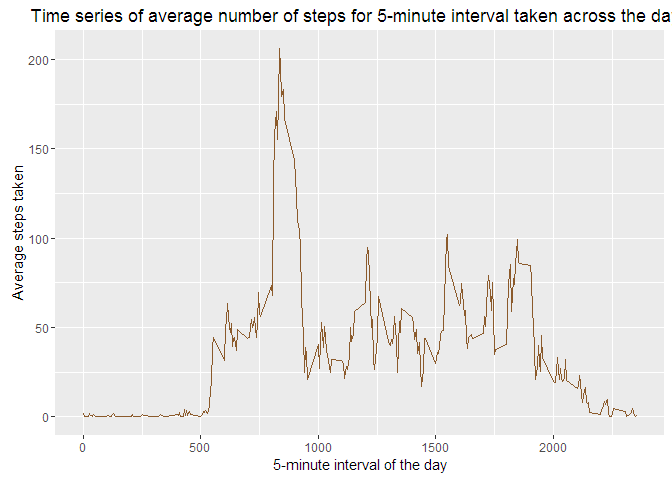
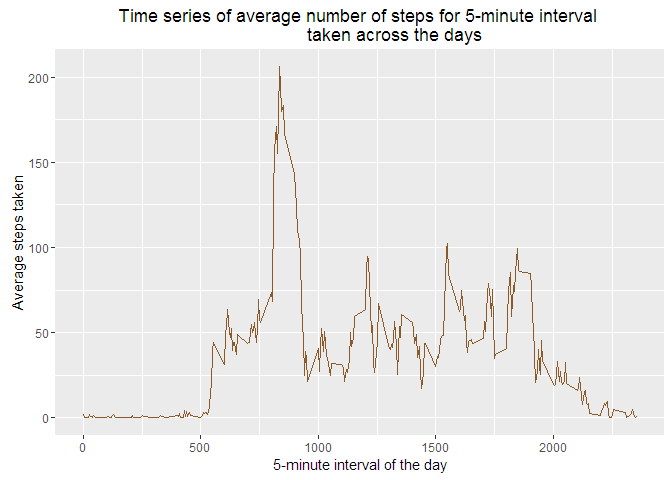
Minor textual changes

diff --git a/PA1_template.html b/PA1_template.html
@@ -125,7 +125,7 @@ $(document).ready(function () {
 <p>Load the data from the csv file.</p>
 <pre class="r"><code>setwd(&quot;F:/Coursera/Data_Science/Reproducible_Research/Week_2&quot;)
 activity &lt;- read.csv(&quot;activity.csv&quot;)</code></pre>
-<p>Reformat variable date to date format and make a ‘clean’ set of data that doesn’t contain NA values for variable steps.</p>
+<p>Reformat variable ‘date’ to date format and make a ‘clean’ set of data that doesn’t contain NA values for variable ‘steps’.</p>
 <pre class="r"><code>activity$date &lt;- as.Date(activity$date,&quot;%Y-%m-%d&quot;)
 activityClean &lt;- activity[!is.na(activity$steps),]</code></pre>
 </div>
@@ -163,7 +163,7 @@ Median total steps per day: 10766</p>
 </div>
 <div id="what-is-the-average-daily-activity-pattern" class="section level2">
 <h2>What is the average daily activity pattern?</h2>
-<p>Calculate the average number of steps for each interval across all days</p>
+<p>Calculate the average number of steps for each interval across all days as preparation for the time series plot.</p>
 <pre class="r"><code>library(dplyr)
 groupsInt &lt;- group_by(activityClean, 
                       interval)
@@ -173,10 +173,11 @@ avgStepsInt &lt;- summarise(groupsInt,
 <pre class="r"><code>library(ggplot2)
 time &lt;- ggplot(avgStepsInt, aes(interval,avg.steps))
 time + geom_line(color = &quot;tan4&quot;) +
-    labs(list(title = &quot;Time series of average number of steps for 5-minute interval taken across the days&quot;, 
+    labs(list(title = &quot;Time series of average number of steps for 5-minute interval 
+              taken across the days&quot;, 
               x = &quot;5-minute interval of the day&quot;,
               y = &quot;Average steps taken&quot;))</code></pre>
[2 lines of base64/hex data omitted]
 <p>Determine which 5-minute interval contains the maximum number of steps on average</p>
 <pre class="r"><code>maxAvgStepsInt &lt;- avgStepsInt[avgStepsInt$avg.steps==max(avgStepsInt$avg.steps),]
 maxSteps &lt;- round(maxAvgStepsInt$avg.steps, digits=2)</code></pre>
@@ -190,16 +191,17 @@ With a maximum average steps of: 206.17</p>
 percNA &lt;- round(mean(is.na(activity$steps))*100,digits = 2)</code></pre>
 <p>Total number of missing values in the dataset: 2304.<br />
 This is 13.11% of the total dataset.</p>
-<p>Use the average steps per interval calculated across all days to impute the missing values in the original dataset. Create a new dataset from the original dataset with the missing values imputed</p>
+<p>Use the average steps per interval calculated across all days to impute the missing values in the original dataset.<br />
+Create a new dataset from the original dataset with the missing values imputed</p>
 <pre class="r"><code>activityImp &lt;- activity
 activityImp$steps[is.na(activityImp$steps)] &lt;- avgStepsInt$avg.steps</code></pre>
-<p>First calculate the total number of steps taken per day for the imputed dataset.</p>
+<p>Calculate the total number of steps taken per day for the imputed dataset as preparation for the histogram.</p>
 <pre class="r"><code>library(dplyr)
 groupsImpDay &lt;- group_by(activityImp, 
                       date)
 totStepsImpDay &lt;- summarise(groupsImpDay, 
                          sum.steps = sum(steps, rm.na = TRUE))</code></pre>
-<p>The histogram beloging to the imputed dataset</p>
+<p>The histogram belonging to the imputed dataset.</p>
 <pre class="r"><code>library(ggplot2)
 hist &lt;- ggplot(totStepsImpDay, aes(sum.steps))
 hist + geom_histogram(na.rm = TRUE,
@@ -222,15 +224,18 @@ totStepsImpDayStats &lt;- summarise(groupsImpTot,
 meanImp &lt;- round(totStepsImpDayStats$mean.sum.steps, digits=2)</code></pre>
 <p>Mean total steps per day: 10767.19<br />
 Median total steps per day: 10767.1886792</p>
-<p>The mean didn’t change. This is logical when looking the imputed values were the mean values per interval. This is also reflected in the histogram. Just the bin containing the mean increased. The median converted towards the mean. Also logical when realising there are values added equal to the mean.</p>
+<p>The mean didn’t change. This is logical when looking the imputed values were the mean values per interval. This is also reflected in the histogram. Just the bin containing the mean increased. The median converted towards the mean.</p>
 </div>
 <div id="are-there-differences-in-activity-patterns-between-weekdays-and-weekends" class="section level2">
 <h2>Are there differences in activity patterns between weekdays and weekends?</h2>
 <p>Create a new factor variable in the dataset with two levels “weekday” and “weekend”. Basis is the new dataset with imputed missing values.</p>
 <pre class="r"><code>library(lubridate)
-activityImp$weekdayNbr &lt;- wday(activity$date, label = FALSE)
-activityImp$weekdayInd &lt;- factor(ifelse(wday(activityImp$date, label = FALSE) %in% c(1,7), &quot;weekend&quot;, &quot;weekday&quot;), levels = c(&quot;weekday&quot;,&quot;weekend&quot;))</code></pre>
-<p>Make a panel plot with time series divided between weekday and weekend days.</p>
+activityImp$weekdayInd &lt;- factor(ifelse(wday(activityImp$date, 
+                                             label = FALSE) %in% c(1,7), 
+                                        &quot;weekend&quot;, 
+                                        &quot;weekday&quot;), 
+                                 levels = c(&quot;weekday&quot;,&quot;weekend&quot;))</code></pre>
+<p>Panel plot with time series divided between weekday and weekend days.</p>
 <pre class="r"><code>library(dplyr)
 groupsImpInt &lt;- group_by(activityImp,
                          weekdayInd,
@@ -242,10 +247,11 @@ avgStepsImpInt &lt;- summarise(groupsImpInt,
 library(ggplot2)
 timeWd &lt;- ggplot(avgStepsImpInt, aes(interval,avg.steps))
 timeWd + geom_line(color = &quot;tan4&quot;) + facet_grid(weekdayInd ~ .) +
-    labs(list(title = &quot;Time series of average number of steps for 5-minute interval taken across the days\ndivided between weekdays and weekend days&quot;, 
+    labs(list(title = &quot;Time series of average number of steps for 5-minute interval 
+              taken across the days divided between weekdays and weekend days&quot;, 
               x = &quot;5-minute interval of the day&quot;,
               y = &quot;Average steps taken&quot;))</code></pre>
[2 lines of base64/hex data omitted]
 </div>
 
 

diff --git a/PA1_template.md b/PA1_template.md
@@ -9,7 +9,7 @@ Load the data from the csv file.
 setwd("F:/Coursera/Data_Science/Reproducible_Research/Week_2")
 activity <- read.csv("activity.csv")
 ```
-Reformat variable date to date format and make a 'clean' set of data that doesn't contain NA values for variable steps.
+Reformat variable 'date' to date format and make a 'clean' set of data that doesn't contain NA values for variable 'steps'.
 
 ```r
 activity$date <- as.Date(activity$date,"%Y-%m-%d")
@@ -63,7 +63,7 @@ Median total steps per day: 10766
 
 ## What is the average daily activity pattern?
 
-Calculate the average number of steps for each interval across all days
+Calculate the average number of steps for each interval across all days as preparation for the time series plot.
 
 ```r
 library(dplyr)
@@ -79,7 +79,8 @@ Make a time series plot
 library(ggplot2)
 time <- ggplot(avgStepsInt, aes(interval,avg.steps))
 time + geom_line(color = "tan4") +
-    labs(list(title = "Time series of average number of steps for 5-minute interval taken across the days", 
+    labs(list(title = "Time series of average number of steps for 5-minute interval 
+              taken across the days", 
               x = "5-minute interval of the day",
               y = "Average steps taken"))
 ```
@@ -106,7 +107,7 @@ percNA <- round(mean(is.na(activity$steps))*100,digits = 2)
 Total number of missing values in the dataset: 2304.  
 This is 13.11% of the total dataset.
 
-Use the average steps per interval calculated across all days to impute the missing values in the original dataset.
+Use the average steps per interval calculated across all days to impute the missing values in the original dataset.  
 Create a new dataset from the original dataset with the missing values imputed
 
 ```r
@@ -114,7 +115,7 @@ activityImp <- activity
 activityImp$steps[is.na(activityImp$steps)] <- avgStepsInt$avg.steps
 ```
 
-First calculate the total number of steps taken per day for the imputed dataset.
+Calculate the total number of steps taken per day for the imputed dataset as preparation for the histogram.
 
 ```r
 library(dplyr)
@@ -124,7 +125,7 @@ totStepsImpDay <- summarise(groupsImpDay,
                          sum.steps = sum(steps, rm.na = TRUE))
 ```
 
-The histogram beloging to the imputed dataset
+The histogram belonging to the imputed dataset.
 
 ```r
 library(ggplot2)
@@ -145,7 +146,6 @@ hist + geom_histogram(na.rm = TRUE,
 
 Calculate and report the mean and median of the total number of steps taken per day after imputation.
 
-
 ```r
 library(dplyr)
 groupsImpTot <- group_by(totStepsImpDay)
@@ -160,7 +160,7 @@ Median total steps per day: 10767.1886792
 
 The mean didn't change. This is logical when looking the imputed values were the mean values per interval.
 This is also reflected in the histogram. Just the bin containing the mean increased.
-The median converted towards the mean. Also logical when realising there are values added equal to the mean.
+The median converted towards the mean.
 
 ## Are there differences in activity patterns between weekdays and weekends?
 
@@ -168,11 +168,14 @@ Create a new factor variable in the dataset with two levels "weekday" and "weeke
 
 ```r
 library(lubridate)
-activityImp$weekdayNbr <- wday(activity$date, label = FALSE)
-activityImp$weekdayInd <- factor(ifelse(wday(activityImp$date, label = FALSE) %in% c(1,7), "weekend", "weekday"), levels = c("weekday","weekend"))
+activityImp$weekdayInd <- factor(ifelse(wday(activityImp$date, 
+                                             label = FALSE) %in% c(1,7), 
+                                        "weekend", 
+                                        "weekday"), 
+                                 levels = c("weekday","weekend"))
 ```
 
-Make a panel plot with time series divided between weekday and weekend days. 
+Panel plot with time series divided between weekday and weekend days. 
 
 ```r
 library(dplyr)
@@ -186,7 +189,8 @@ avgStepsImpInt <- summarise(groupsImpInt,
 library(ggplot2)
 timeWd <- ggplot(avgStepsImpInt, aes(interval,avg.steps))
 timeWd + geom_line(color = "tan4") + facet_grid(weekdayInd ~ .) +
-    labs(list(title = "Time series of average number of steps for 5-minute interval taken across the days\ndivided between weekdays and weekend days", 
+    labs(list(title = "Time series of average number of steps for 5-minute interval 
+              taken across the days divided between weekdays and weekend days", 
               x = "5-minute interval of the day",
               y = "Average steps taken"))
 ```
